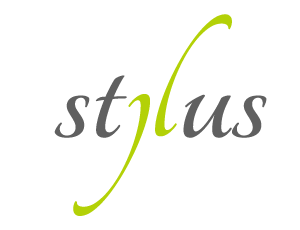
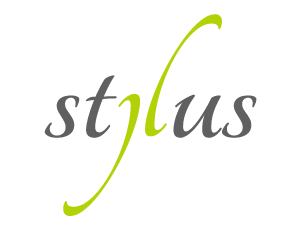
Estructura Terminada

Changed region(s): [[0.15, 0.0609, 0.9, 0.9435]]

diff --git a/css/estilos.css b/css/estilos.css
@@ -1,2 +1,2 @@
 /*  CSS3 Clases - Luis Gago Casas */
-*,*:after,*:before{-moz-box-sizing:border-box;-webkit-box-sizing:border-box;-webkit-box-sizing:border-box;-moz-box-sizing:border-box;box-sizing:border-box}[class*='col-']{float:left;padding-right:20px}[class*='col-']:last-of-type{padding-right:0}.grid{margin:0 auto;max-width:1140px;min-width:100%;overflow:hidden}.grid:after{clear:both;content:"";display:table}.grid-pad{padding:20px 0 0 20px}.grid-pad > [class*='col-']:last-of-type{padding-right:20px}.push-right{float:right}.col-1-1{width:100%}.col-2-3,.col-8-12{width:66.66%}.col-1-2,.col-6-12{width:50%}.col-1-3,.col-4-12{width:33.33%}.col-1-4,.col-3-12{width:25%}.col-1-5{width:20%}.col-1-6,.col-2-12{width:16.667%}.col-1-7{width:14.28%}.col-1-8{width:12.5%}.col-1-9{width:11.1%}.col-1-10{width:10%}.col-1-11{width:9.09%}.col-1-12{width:8.33%}.col-11-12{width:91.66%}.col-10-12{width:83.333%}.col-9-12{width:75%}.col-5-12{width:41.66%}.col-7-12{width:58.33%}@media handheldonly screen and (max-width:767px){.grid{margin-left:0;margin-right:0;min-width:0;padding-left:0;padding-right:0;width:100%}[class*='col-']{float:none;margin-bottom:10px;margin-left:0;margin-right:0;margin-top:10px;padding-left:20px;padding-right:20px;width:auto}}@font-face{font-family:'Open Sans';font-style:normal;font-weight:400;src:local('Open Sans'),local('Open Sans'),url("../fonts/opensans.woff") format('woff')}@font-face{font-family:'Josefin Slab';font-style:normal;font-weight:400;src:local('Josefin Slab'),local('JosefinSlab'),url("../fonts/Josefin_Slab.woff") format('woff')}body{background:#fff;font-family:'Open Sans',Arial,Sans-serif;font-size:16px}*{margin:0}a{color:#fff;text-decoration:none}ul{margin:0;padding:0 0 0 15px}li{list-style:none}.wrapper{margin:0 auto;position:relative}.header{background-color:#103950;color:#fff;margin:0 auto;}.header .cabecera{height:50px;}.header .cabecera .conteiner{margin:0 auto;max-width:1000px;position:relative}.cabecera{background:#1873bb;border-top:5px solid #5b9230;}.cabecera .logo{background:url("../img/icono-1.png") no-repeat;-webkit-background-size:60px auto;-moz-background-size:60px auto;ms-background-size:60px auto;o-background-size:60px auto;background-size:60px auto;float:left;height:45px;line-height:55px;position:relative;width:100px;z-index:7}.menu{height:inherit;left:0;margin:0 auto;position:absolute;right:0;top:0;z-index:6;}.menu .lista{font-size:0;padding:0;text-align:right;}.menu .lista .tab{-moz-transform:scale(1,1);-moz-transform-origin:left center;display:inline-block;font-size:14px;height:50px;text-align:center;text-transform:uppercase;vertical-align:top;-ms-zoom:1;-webkit-zoom:1;zoom:1;}.menu .lista .tab a{color:#fff;display:block;height:50px;line-height:50px;padding:0 20px;text-align:center;-webkit-transition:.2s background;-moz-transition:.2s background;ms-transition:.2s background;o-transition:.2s background;transition:.2s background}.menu .lista .tab:hover a,.menu .lista .tab.active{background:#99865c}.portada{background:url("../img/portada.png") no-repeat left;-webkit-background-size:500px auto;-moz-background-size:500px auto;ms-background-size:500px auto;o-background-size:500px auto;background-size:500px auto;height:440px;margin:0 auto 0 auto;max-width:1000px;position:relative}.soyyo{line-height:50px;position:absolute;right:0;top:140px;}.soyyo .luisgago{font-size:3.7em;text-shadow:3px 3px 0 #1f86a6,8px 10px 0 rgba(0,0,0,0.2)}.soyyo .soy{font-family:'Josefin Slab',serif;font-size:2.5em;padding:0 20px 0 0;text-align:right}.flotante{border-top:0;-webkit-box-shadow:0 1px 5px #000;-moz-box-shadow:0 1px 5px #000;ms-box-shadow:0 1px 5px #000;o-box-shadow:0 1px 5px #000;box-shadow:0 1px 5px #000;left:0;position:fixed;right:0;top:0;z-index:99}.contenido{margin:0 auto 0 auto;max-width:1000px;position:relative;}.contenido .aprendo{margin:10px auto;}.contenido .aprendo .img{padding:5px}.contenido .aprendo .texto{padding:5px;text-align:justify}.contenido .aprendo .orden{background-color:#972e2e;-webkit-border-radius:50px;-moz-border-radius:50px;ms-border-radius:50px;o-border-radius:50px;border-radius:50px;color:#fff;font-size:30px;height:50px;line-height:50px;margin:10px 10px 10px 10px;padding:0 17px;width:50px}.contenido .left .img{float:right}.contenido .left .orden{float:left}.contenido .right .img{float:left}.contenido .right .orden{float:right}.section{display:inline-block;}.section:hover{background-color:#eee}
+*,*:after,*:before{-moz-box-sizing:border-box;-webkit-box-sizing:border-box;-webkit-box-sizing:border-box;-moz-box-sizing:border-box;box-sizing:border-box}[class*='col-']{float:left;padding-right:20px}[class*='col-']:last-of-type{padding-right:0}.grid{margin:0 auto;max-width:1140px;min-width:100%;overflow:hidden}.grid:after{clear:both;content:"";display:table}.grid-pad{padding:20px 0 0 20px}.grid-pad > [class*='col-']:last-of-type{padding-right:20px}.push-right{float:right}.col-1-1{width:100%}.col-2-3,.col-8-12{width:66.66%}.col-1-2,.col-6-12{width:50%}.col-1-3,.col-4-12{width:33.33%}.col-1-4,.col-3-12{width:25%}.col-1-5{width:20%}.col-1-6,.col-2-12{width:16.667%}.col-1-7{width:14.28%}.col-1-8{width:12.5%}.col-1-9{width:11.1%}.col-1-10{width:10%}.col-1-11{width:9.09%}.col-1-12{width:8.33%}.col-11-12{width:91.66%}.col-10-12{width:83.333%}.col-9-12{width:75%}.col-5-12{width:41.66%}.col-7-12{width:58.33%}@media handheldonly screen and (max-width:767px){.grid{margin-left:0;margin-right:0;min-width:0;padding-left:0;padding-right:0;width:100%}[class*='col-']{float:none;margin-bottom:10px;margin-left:0;margin-right:0;margin-top:10px;padding-left:20px;padding-right:20px;width:auto}}@font-face{font-family:'Open Sans';font-style:normal;font-weight:400;src:local('Open Sans'),local('Open Sans'),url("../fonts/opensans.woff") format('woff')}@font-face{font-family:'Josefin Slab';font-style:normal;font-weight:400;src:local('Josefin Slab'),local('JosefinSlab'),url("../fonts/Josefin_Slab.woff") format('woff')}body{background:#fff;font-family:'Open Sans',Arial,Sans-serif;font-size:16px}*{margin:0}a{color:#fff;text-decoration:none}ul{margin:0;padding:0 0 0 15px}li{list-style:none}.wrapper{margin:0 auto;position:relative}.header{background-color:#103950;color:#fff;margin:0 auto;}.header .cabecera{height:50px;}.header .cabecera .conteiner{margin:0 auto;max-width:1000px;position:relative}.cabecera{background:#1873bb;border-top:5px solid #5b9230;}.cabecera .logo{background:url("../img/icono-1.png") no-repeat;-webkit-background-size:380px 44px;-moz-background-size:380px 44px;ms-background-size:380px 44px;o-background-size:380px 44px;background-size:380px 44px;float:left;height:45px;line-height:55px;position:relative;width:380px;z-index:7;margin:2px 0 0 0}.menu{height:inherit;left:0;margin:0 auto;position:absolute;right:0;top:0;z-index:6;}.menu .lista{font-size:0;padding:0;text-align:right;}.menu .lista .tab{-moz-transform:scale(1,1);-moz-transform-origin:left center;display:inline-block;font-size:14px;height:50px;text-align:center;text-transform:uppercase;vertical-align:top;-ms-zoom:1;-webkit-zoom:1;zoom:1;}.menu .lista .tab a{color:#fff;display:block;height:50px;line-height:50px;padding:0 20px;text-align:center;-webkit-transition:.2s background;-moz-transition:.2s background;ms-transition:.2s background;o-transition:.2s background;transition:.2s background}.menu .lista .tab:hover a,.menu .lista .tab.active{background:#99865c}.portada{background:url("../img/portada.png") no-repeat left;-webkit-background-size:500px auto;-moz-background-size:500px auto;ms-background-size:500px auto;o-background-size:500px auto;background-size:500px auto;height:440px;margin:0 auto 0 auto;max-width:1000px;position:relative}.soyyo{line-height:50px;position:absolute;right:0;top:140px;}.soyyo .luisgago{font-size:3.7em;text-shadow:3px 3px 0 #1f86a6,8px 10px 0 rgba(0,0,0,0.2)}.soyyo .soy{font-family:'Josefin Slab',serif;font-size:2.5em;padding:0 20px 0 0;text-align:right}.flotante{border-top:0;-webkit-box-shadow:0 1px 5px #000;-moz-box-shadow:0 1px 5px #000;ms-box-shadow:0 1px 5px #000;o-box-shadow:0 1px 5px #000;box-shadow:0 1px 5px #000;left:0;position:fixed;right:0;top:0;z-index:99}.contenido{margin:0 auto 30px auto;max-width:1000px;position:relative;}.contenido .grid-pad{padding:20px 0 0 0}.contenido .aprendo{margin:10px auto;}.contenido .aprendo .img{padding:5px}.contenido .aprendo .texto{padding:5px;text-align:justify}.contenido .aprendo .orden{background-color:#972e2e;-webkit-border-radius:50px;-moz-border-radius:50px;ms-border-radius:50px;o-border-radius:50px;border-radius:50px;color:#fff;font-size:30px;height:50px;line-height:50px;margin:70px 10px 10px 10px;padding:0 17px;width:50px}.contenido .left .img{float:right}.contenido .left .orden{float:left}.contenido .right .img{float:left}.contenido .right .orden{float:right}.contenido .bonus{text-align:center;font-size:50px;text-shadow:0 2px 5px #000;border-bottom:1px dotted #d1d1d1;line-height:12px;margin:30px 0 30px 0}.section{display:inline-block;}.section:hover{background-color:rgba(238,238,238,0.5)}.input{-webkit-border-radius:5px;-moz-border-radius:5px;ms-border-radius:5px;o-border-radius:5px;border-radius:5px;-moz-box-sizing:border-box;-webkit-box-sizing:border-box;font-size:inherit;outline:0;padding-left:35px;width:200px;height:30px;border:0;font-size:17px;line-height:25px}.btn{-webkit-appearance:none;border:none;border-bottom:5px solid transparent;-webkit-border-radius:5px;-moz-border-radius:5px;ms-border-radius:5px;o-border-radius:5px;border-radius:5px;color:#fff;cursor:pointer;display:inline-block;-ms-zoom:1;-webkit-zoom:1;zoom:1;-moz-transform:scale(1,1);-moz-transform-origin:left center;font-size:14px;padding:5px 5px;vertical-align:top;white-space:nowrap}.yellow{background:#ffc33e;color:#b36929;border-color:#b36929}.footer{background-color:#213338;-webkit-border-radius:5px 5px 0 0;-moz-border-radius:5px 5px 0 0;ms-border-radius:5px 5px 0 0;o-border-radius:5px 5px 0 0;border-radius:5px 5px 0 0;bottom:0;color:#fff;left:0;margin:0 auto;padding:3px;position:fixed;right:0;width:80%;z-index:8;text-align:center;}.footer .msj{display:inline-block;font-size:20px}

diff --git a/index.html b/index.html
@@ -54,7 +54,6 @@
 						</p>
 				    </div>
 				</section>
-				<!--  -->
 				<section class="section" id="3">
 				    <div class="col-8-12 aprendo left">
 						<span class="orden">3</span>
@@ -77,8 +76,39 @@
 						</p>
 				    </div>
 				</section>
+				<h5 class="bonus">Bonus</h5>
+				<section class="section" id="5">
+				    <div class="col-8-12 aprendo left">
+						<span class="orden">5</span>
+						<p class="texto">
+							Lorem ipsum dolor sit amet, consectetur adipisicing elit. Neque earum nihil id excepturi laborum laboriosam facere ratione nam, enim consectetur labore? Culpa laudantium suscipit earum quisquam, aliquam dignissimos cupiditate quo quia cumque reiciendis. Magni, commodi, porro in harum veniam libero?
+						</p>
+				    </div>
+				    <div class="col-4-12 aprendo left">
+						<img src="img/bootstrap.png" class="img">
+				    </div>
+			    </section>
+			    <section class="section" id="6">
+				    <div class="col-4-12 aprendo right">
+						<img src="img/foundation.png" class="img">
+				    </div>
+				    <div class="col-8-12 aprendo right">
+						<span class="orden">6</span>
+						<p class="texto">
+							Lorem ipsum dolor sit amet, consectetur adipisicing elit. Neque earum nihil id excepturi laborum laboriosam facere ratione nam, enim consectetur labore? Culpa laudantium suscipit earum quisquam, aliquam dignissimos cupiditate quo quia cumque reiciendis. Magni, commodi, porro in harum veniam libero?
+						</p>
+				    </div>
+				</section>
 			</div>
 		</div>
+		<footer class="footer">
+			<form action="">
+				<div class="msj">Se el primero en saber de nuevos cursos gratis</div>
+				<input type="text" name="nombre" placeholder="Nombre" class="input">
+				<input type="text" name="correo" placeholder="Correo" class="input">
+				<button class="btn yellow">Enviar</button>
+			</form>
+		</footer>
 	</div>
 	<script src="js/main.js"></script>
 </body>
